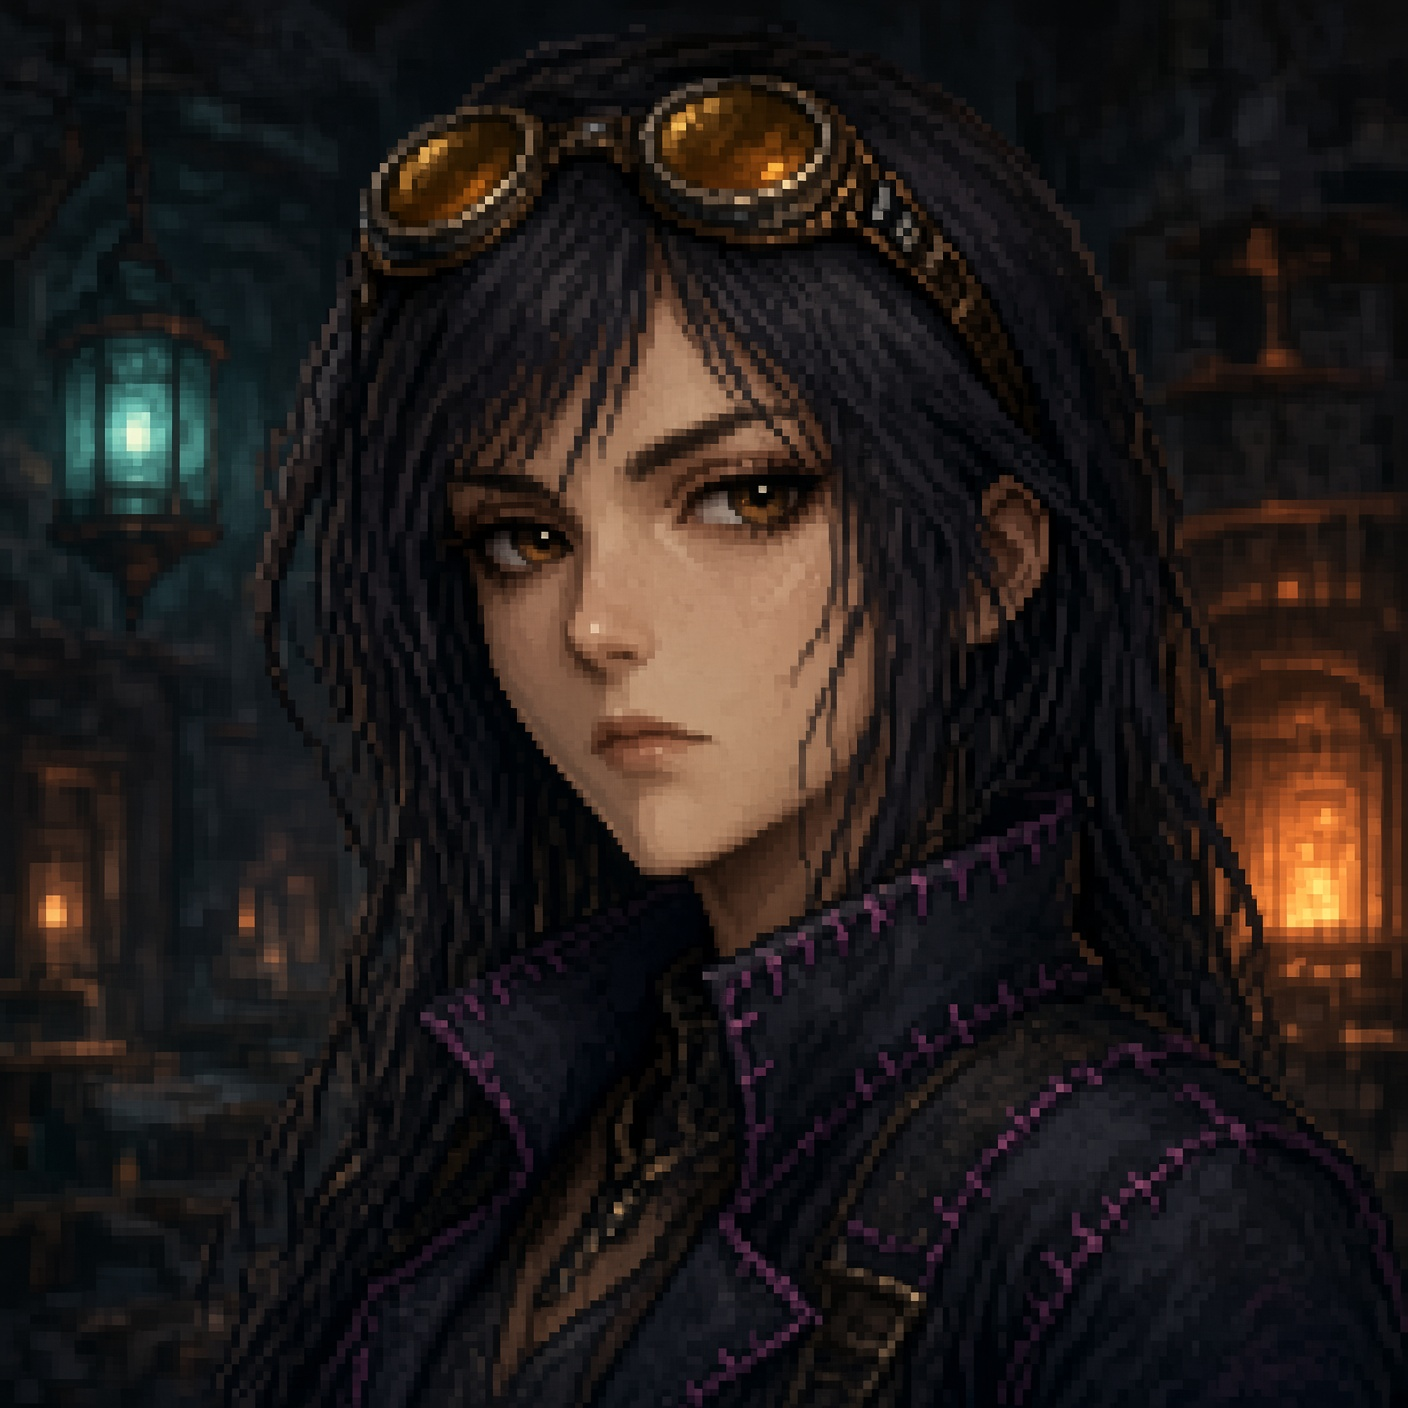
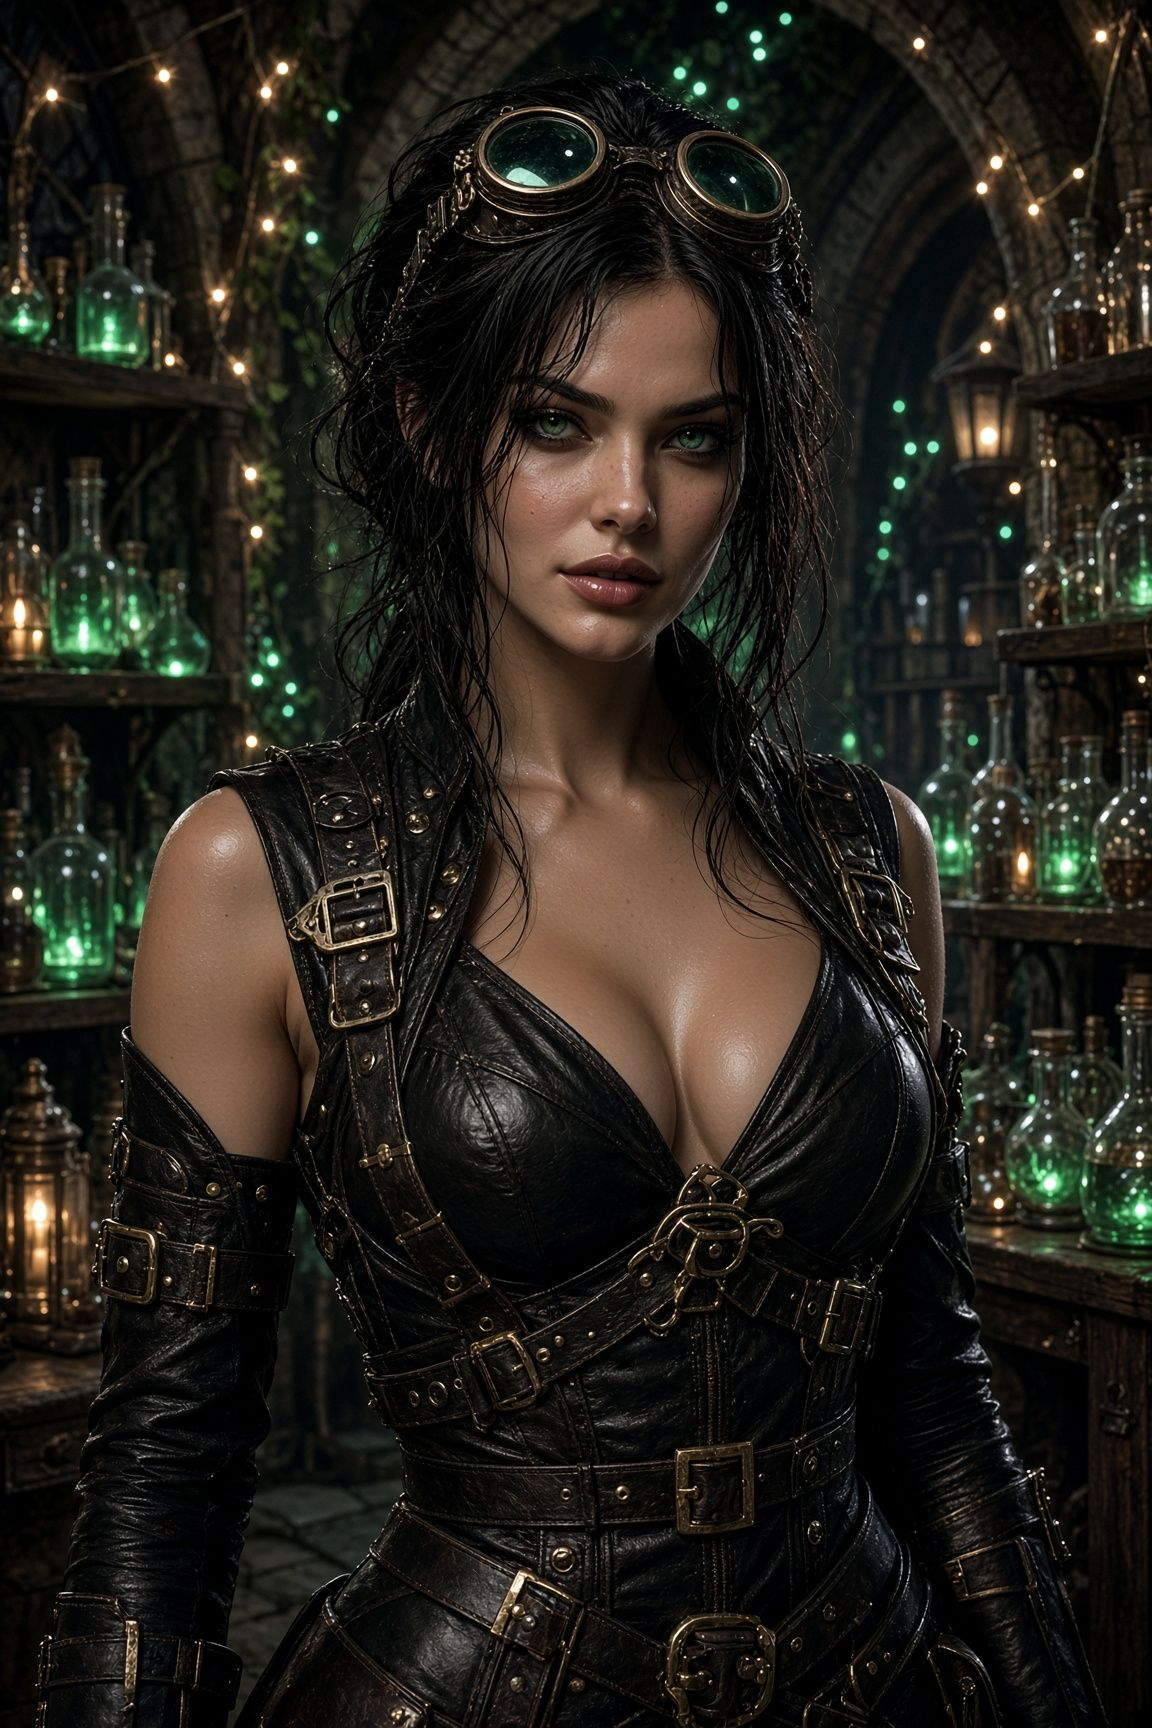
feat(hall): operator-supplied art for Valerie's small portrait and Oracle's talk scene
- public/hall/portraits/valerie.jpg: replaced the low-res sprite crop
  (looked blocky/pixelated upscaled into the 112px dialogue portrait box)
  with the same operator-supplied portrait already used for her talk
  backdrop.
- public/hall/painted/talk-oracle.webp (new) + world.ts: Oracle gets his
  own dedicated talk-scene backdrop and portrait, an operator-supplied
  green-eye-in-chains piece matching his existing in-scene palette
  (#39ff14). He was previously falling back to the shared generic
  talk-scene image (the one depicting Raziel) like every agent except
  Valerie — same root cause the operator flagged this session, now fixed
  for a second agent via the same talkScene mechanism Valerie already
  proved out.

Claude-Session: https://claude.ai/code/session_01VGSarcwFyzfmiT46Cugans

diff --git a/ui-v2/src/lib/hall/world.ts b/ui-v2/src/lib/hall/world.ts
@@ -9,6 +9,7 @@ export const PLAYER_SRC = "/hall/sprites/ravenlord.png";
 export const VALERIE_ACTOR = "/hall/sprites/valerie-hd2d.png";
 export const VALERIE_TALK = "/hall/painted/talk-valerie.jpg";
 export const VALERIE_PORTRAIT = "/hall/portraits/valerie.jpg";
+export const ORACLE_TALK = "/hall/painted/talk-oracle.webp";
 
 export type RavenlordSkin = {
   id: string;
@@ -199,7 +200,8 @@ export const HALL_NPCS: HallNpc[] = [
     state: "working",
     actor: "/hall/sprites/oracle-eye.png",
     actorH: 68,
-    portrait: "/hall/sprites/oracle-eye.png",
+    portrait: ORACLE_TALK,
+    talkScene: ORACLE_TALK,
     greeting: "TRUTH OVER COMFORT. RECEIPTS OVER OPINION. I am the celestial green eye of the Canonical Registry. I do not guess, I do not hallucinate, and I do not tolerate polite AI deceit. Speak your query, or step back before the Inquisitor.",
     href: "/oracle",
     actions: [
